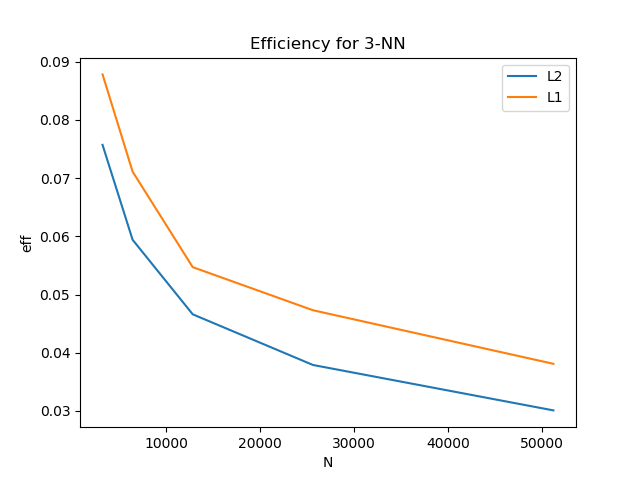
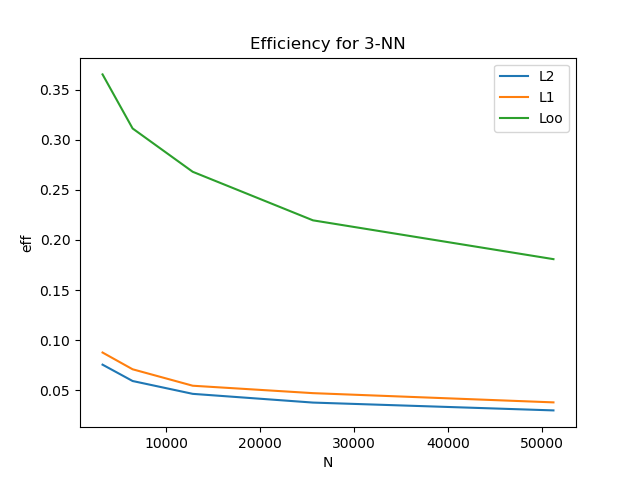
Classification using Loo.

diff --git a/classify.py b/classify.py
@@ -56,8 +56,8 @@ if __name__ == "__main__":
 		
 		X=x_train[:N]
 		
-		#tree=skn.BallTree(X,metric=skn.dist_metrics.ChebyshevDistance()) # L_oo
-		tree=skn.BallTree(X,metric=skn.dist_metrics.ManhattanDistance()) # L_1
+		tree=skn.BallTree(X,metric=skn.dist_metrics.ChebyshevDistance()) # L_oo
+		#tree=skn.BallTree(X,metric=skn.dist_metrics.ManhattanDistance()) # L_1
 		#tree=skn.BallTree(X,metric=skn.dist_metrics.EuclideanDistance()) # L_2
 		#tree=skn.BallTree(X,metric=skn.dist_metrics.PyFuncDistance(dist_MA_sklearn)) #
 
@@ -65,7 +65,7 @@ if __name__ == "__main__":
 			start=time.perf_counter()
 			err=error_classification(tree,k,10000)
 			end=time.perf_counter()
-			print("L1",N,k,err)
+			print("Loo",N,k,err)
 			#print("k: ",k,
 			#	"error:", "%.2f %%" % (err*100),
 			#	"time:", "%.2f sec" % (end-start) )

diff --git a/README.md b/README.md
@@ -102,3 +102,9 @@ The errors of the distance table for *N=100,200,400,800,1600* are
 
 Distance table for the first *N=100* images using the function `dist_MA`.
 <img src="./dist_MA.png" alt="Drawing" style="width: 800px;"/>
+
+### Assignment 8.
+
+<img src="./plot_1.png" alt="Drawing" style="width: 800px;"/>
+<img src="./plot_3.png" alt="Drawing" style="width: 800px;"/>
+<img src="./plot_5.png" alt="Drawing" style="width: 800px;"/>
